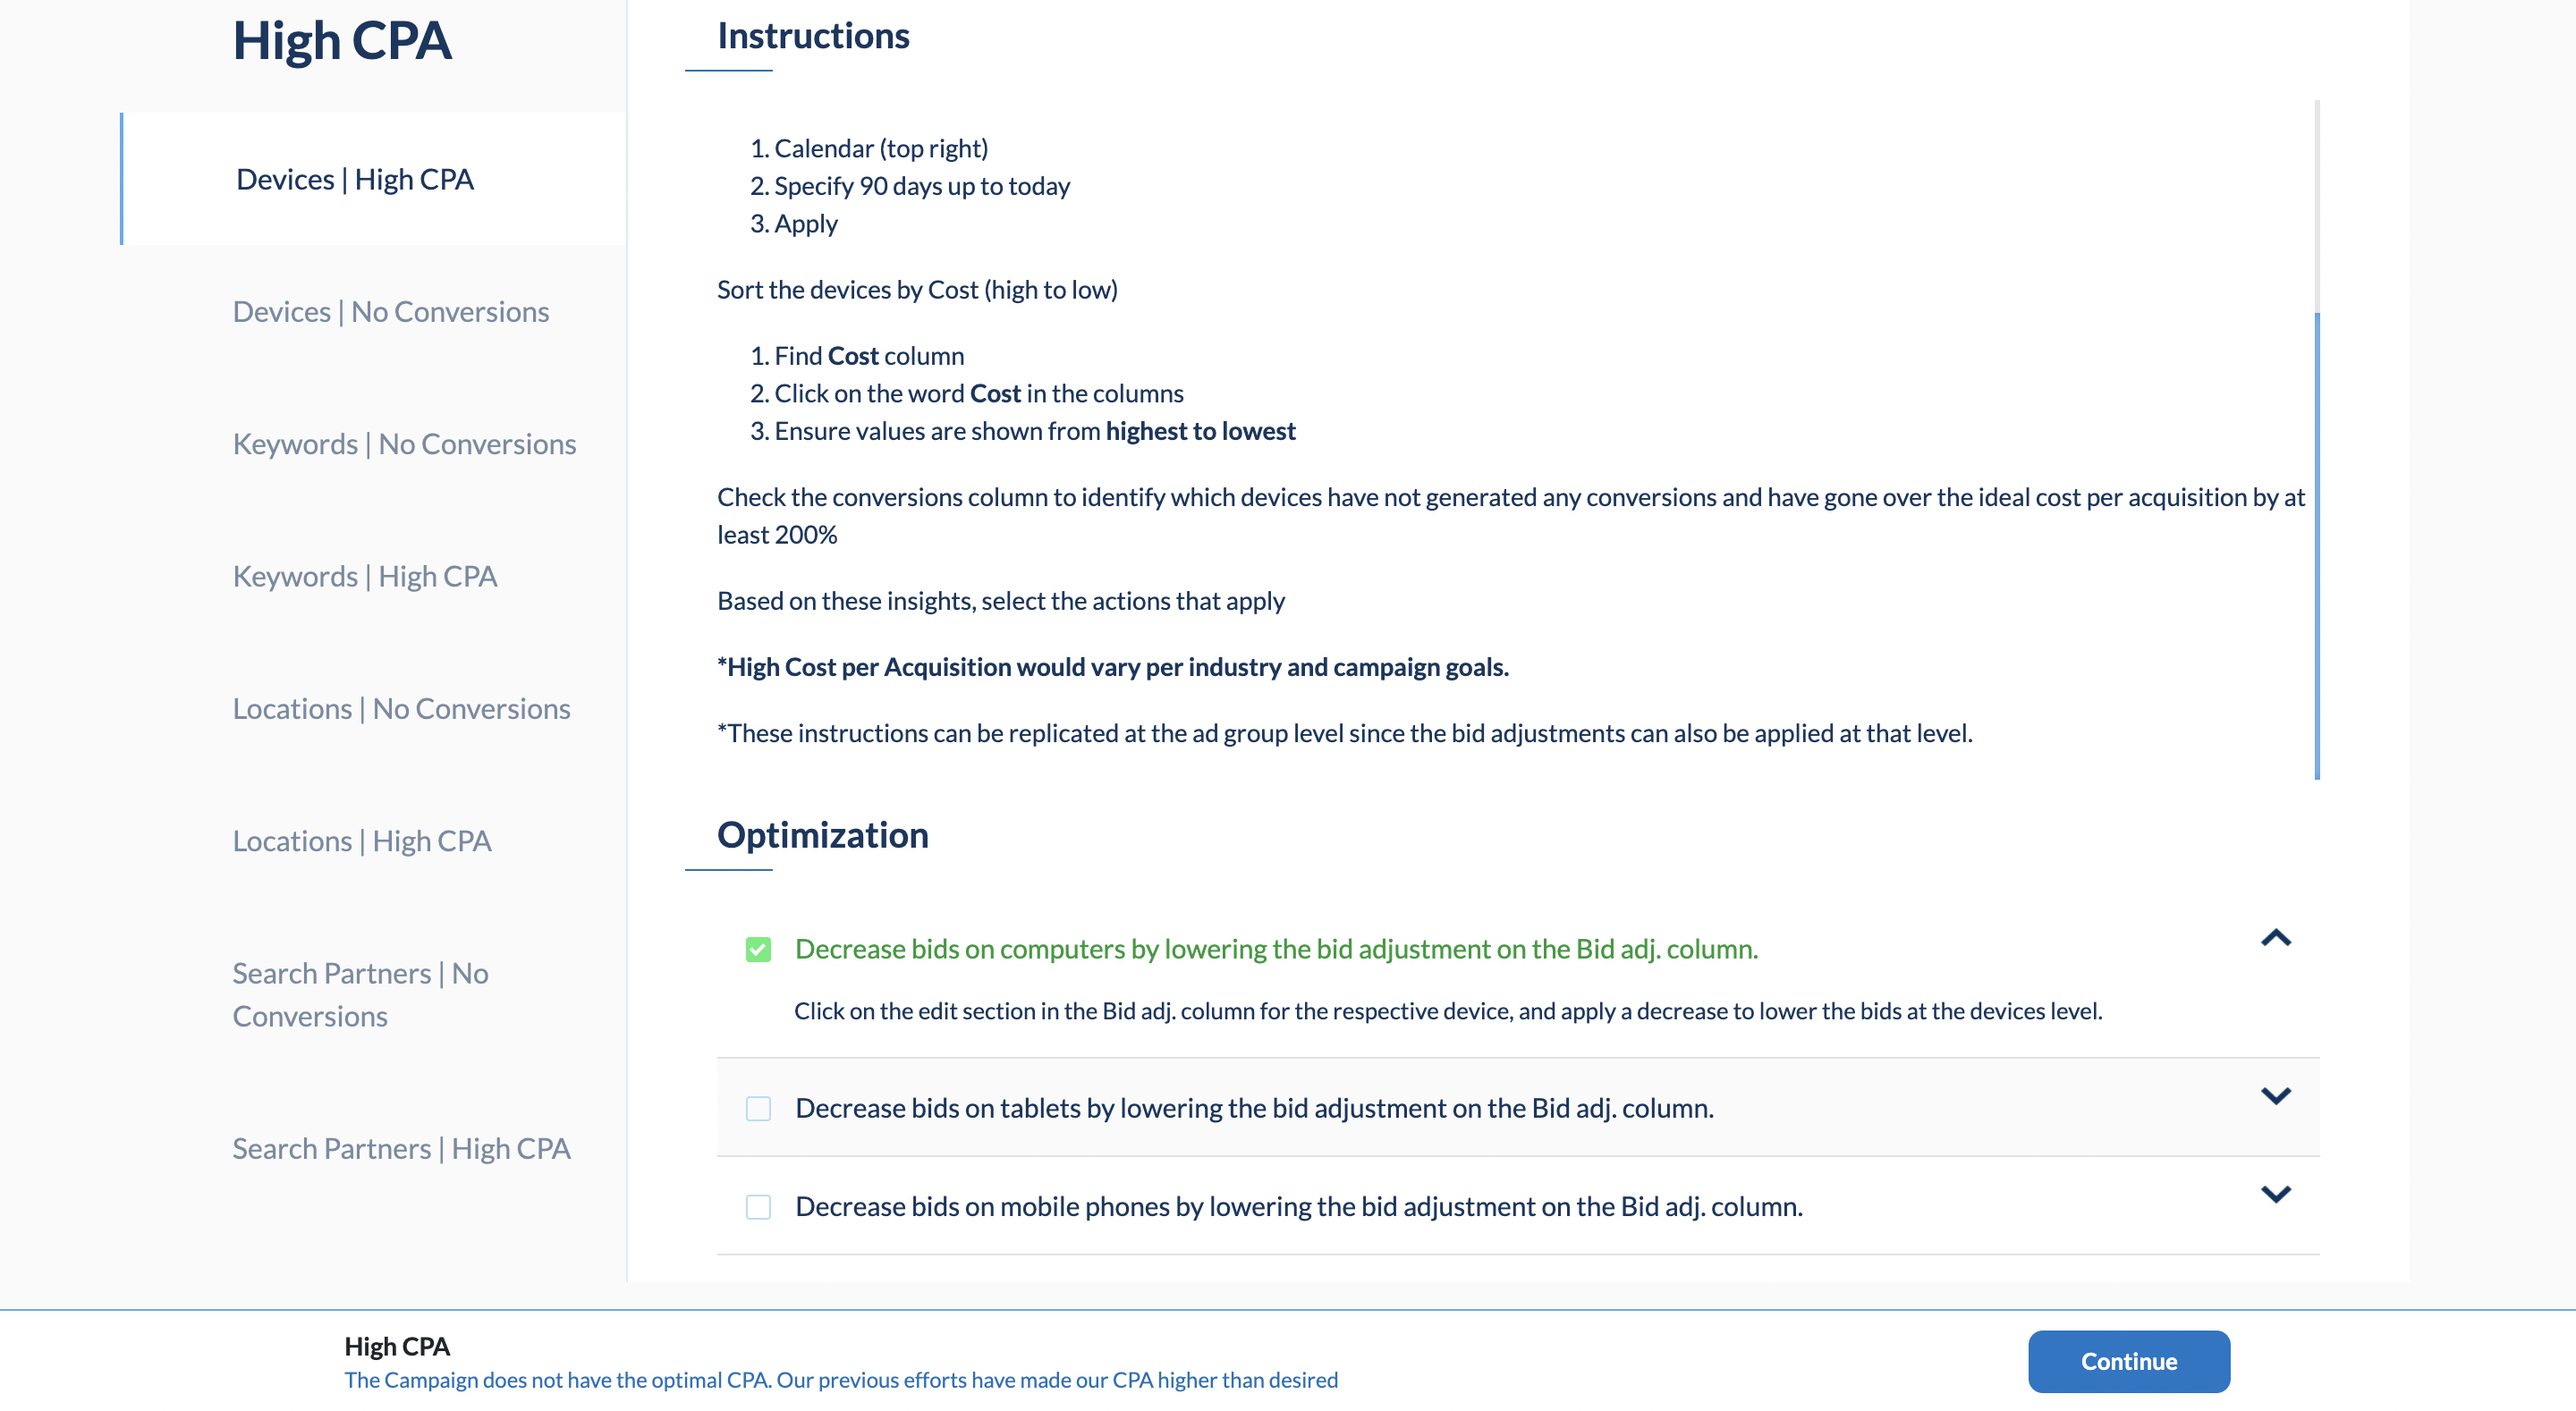
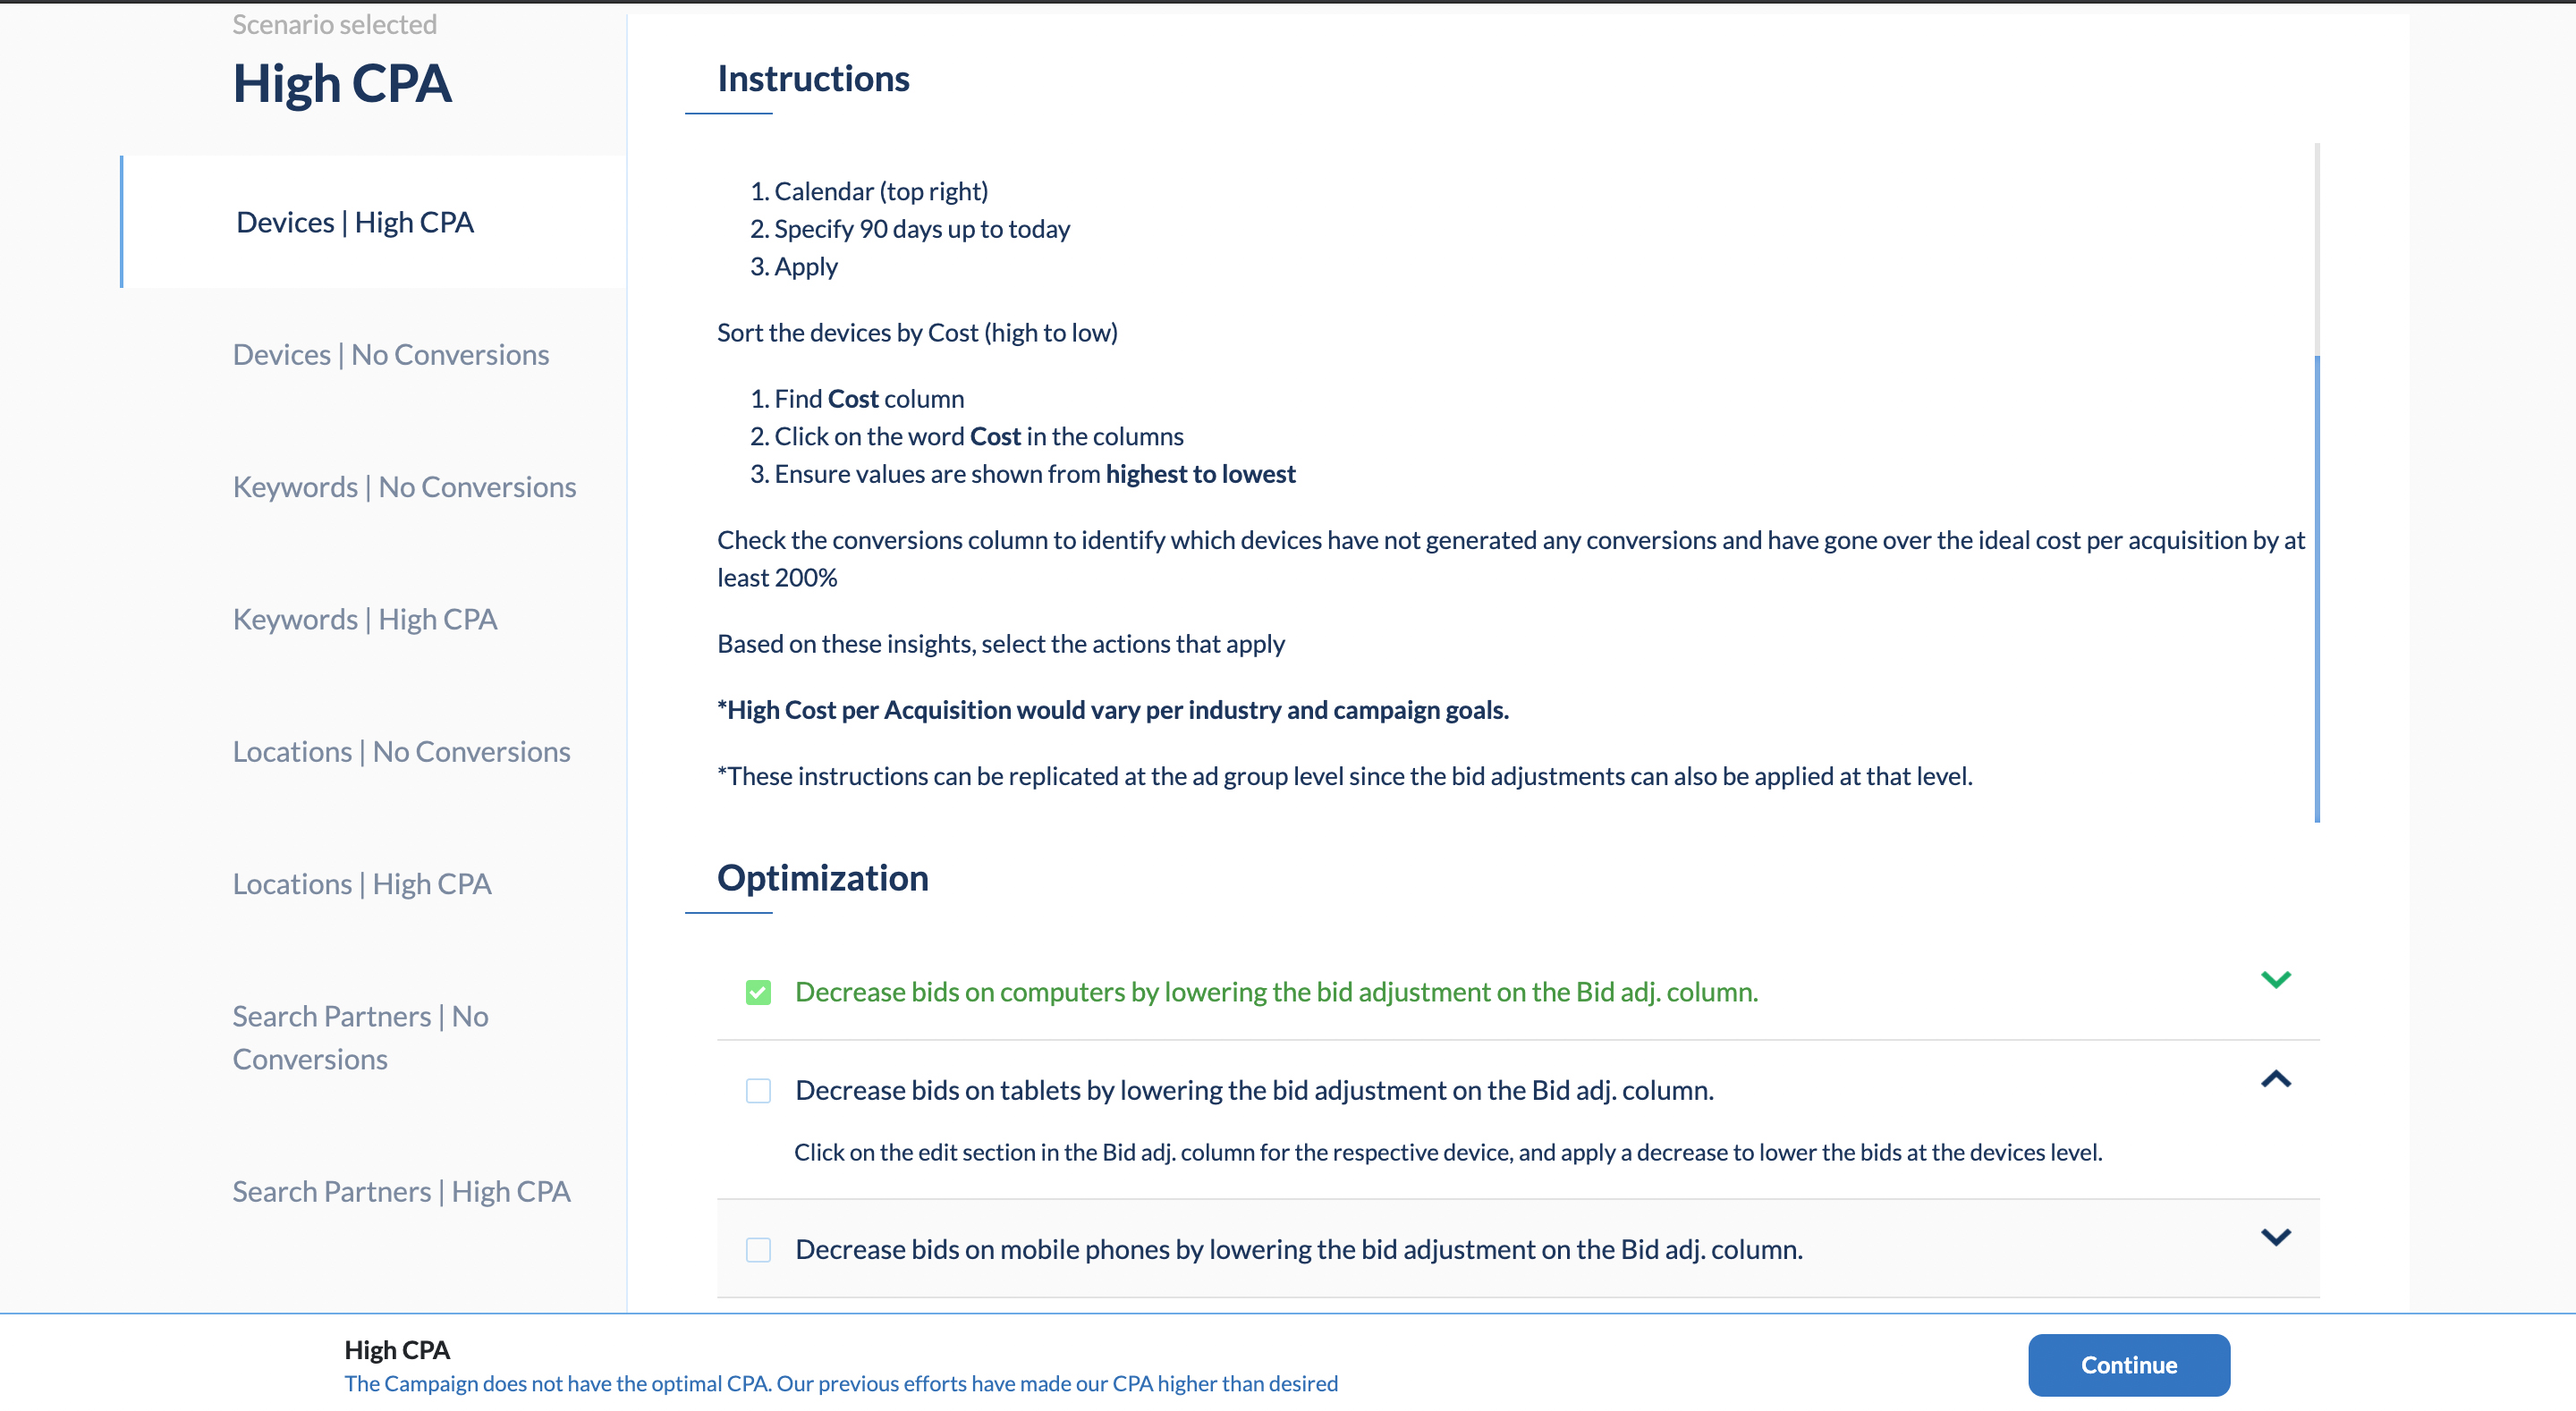
fix arrow color when checkbox is checked, fix capture image readme

diff --git a/src/app/components/home/home.component.ts b/src/app/components/home/home.component.ts
@@ -51,22 +51,33 @@ export class HomeComponent implements OnInit {
   }
 
   getCheckBox(e:any, i:number) {
+    //capture arrow to change color
+    let arrow = document.getElementById('arrow' + i);
+
     //capture text to change color
     let textChangeColor = document.getElementById('text'+i);
 
     //equals elements to array
     this.buttonChecks.length = this.actions.length;
 
-    //store in array if target is checked
+    //checked conditional
     if(e.target.checked) {
+      //store true in array if target is checked
       this.buttonChecks.splice(i, 1, true);
-      if (textChangeColor) {
+      if (textChangeColor && arrow) {
+        //change text color
         textChangeColor['style'].color = '#189A36';
+        //change arrow color
+        arrow['style'].filter = 'invert(29%) sepia(72%) saturate(3968%) ' +
+                                'hue-rotate(129deg) brightness(103%) contrast(81%)';
       }
     } else {
+      //store false in array if target is uncheck
       this.buttonChecks.splice(i, 1, false);
-      if (textChangeColor) {
-        textChangeColor['style'].color = '#14375F';}
+      if (textChangeColor && arrow) {
+        textChangeColor['style'].color = '#14375F';
+        arrow['style'].filter = 'unset';
+      }
     }
 
     //check array values for disabled button
@@ -77,6 +88,7 @@ export class HomeComponent implements OnInit {
     let arrow = document.getElementById('arrow' + i);
     if(arrow) {
       if (e.target.ariaExpanded === 'true') {
+        //rotate arrow if collapse
         arrow['style'].transform = 'scaleY(-1)';
       } else {
         arrow['style'].transform = 'scaleY(1)';
